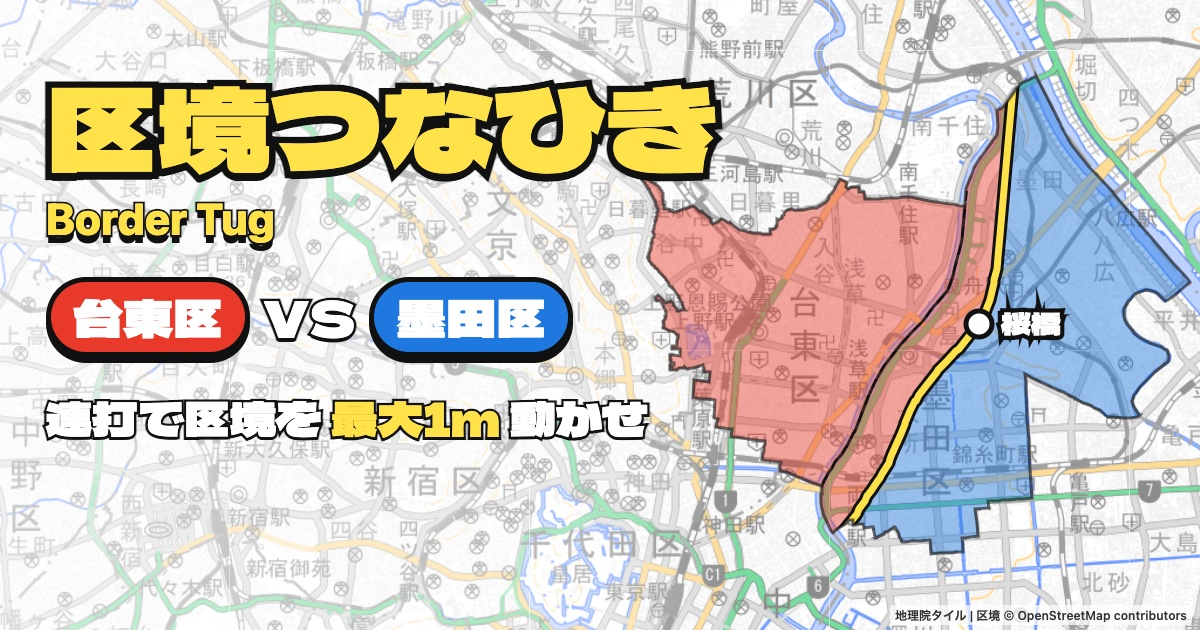
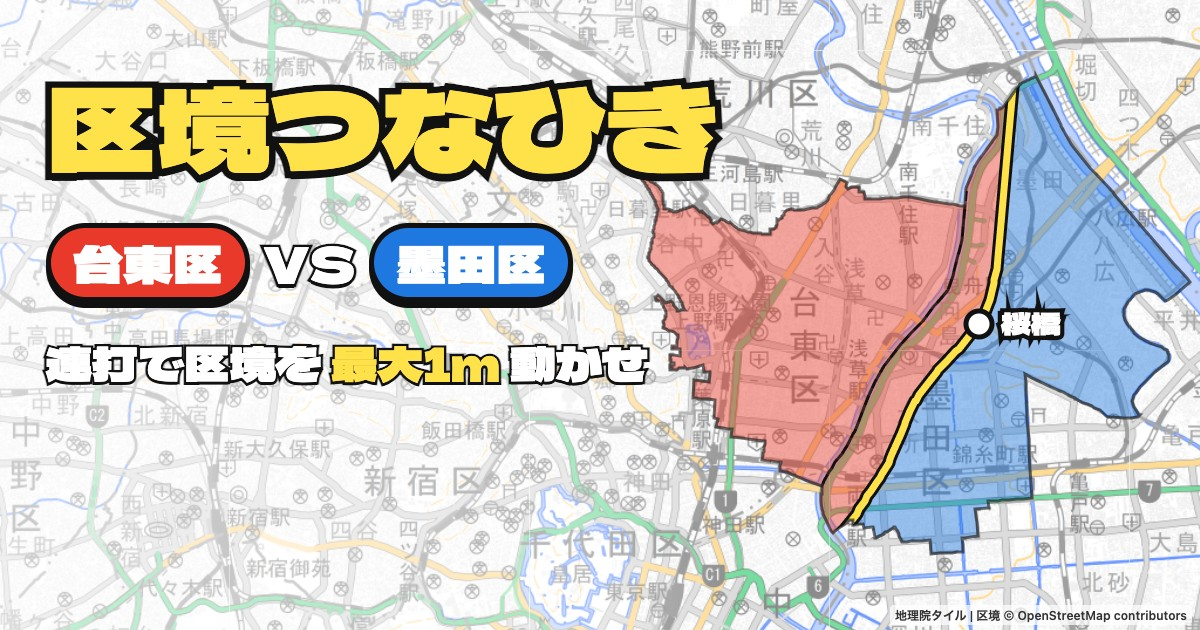
Border Tug: Japanese-only link card (image, title, descriptions)

Changed region(s): [[0.0308, 0.3016, 0.555, 0.7238]]

diff --git a/mini-games/border-tug/index.html b/mini-games/border-tug/index.html
@@ -3,13 +3,13 @@
 <head>
 <meta charset="utf-8">
 <meta name="viewport" content="width=device-width, initial-scale=1, maximum-scale=1, user-scalable=no, viewport-fit=cover">
-<title>区境つなひき / Border Tug</title>
-<meta name="description" content="Taito and Sumida wards really move their border with a tug of war on Sakurabashi. Pick a side and tap to move the shared online border by up to 1 m. A free mini game by Lys Games.">
+<title>区境つなひき</title>
+<meta name="description" content="台東区と墨田区は毎年、桜橋の綱引きで本当に区境を動かしています。そのネット版。どっちかの味方について連打すると、みんなの区境が最大1m動きます。Lys Gamesの無料ミニゲーム。">
 <meta property="og:type" content="website">
-<meta property="og:title" content="区境つなひき / Border Tug">
-<meta property="og:description" content="台東区か墨田区か。連打で、みんなの区境を最大1m動かせ。Pick a ward and tap to move the real border by up to 1 m.">
+<meta property="og:title" content="区境つなひき">
+<meta property="og:description" content="台東区か墨田区か。連打で、みんなの区境を最大1m動かせ。">
 <meta property="og:url" content="https://lys-games.github.io/mini-games/border-tug/">
-<meta property="og:image" content="https://lys-games.github.io/mini-games/border-tug/thumb.jpg">
+<meta property="og:image" content="https://lys-games.github.io/mini-games/border-tug/thumb.jpg?v=2">
 <meta property="og:image:width" content="1200">
 <meta property="og:image:height" content="630">
 <meta name="twitter:card" content="summary_large_image">
